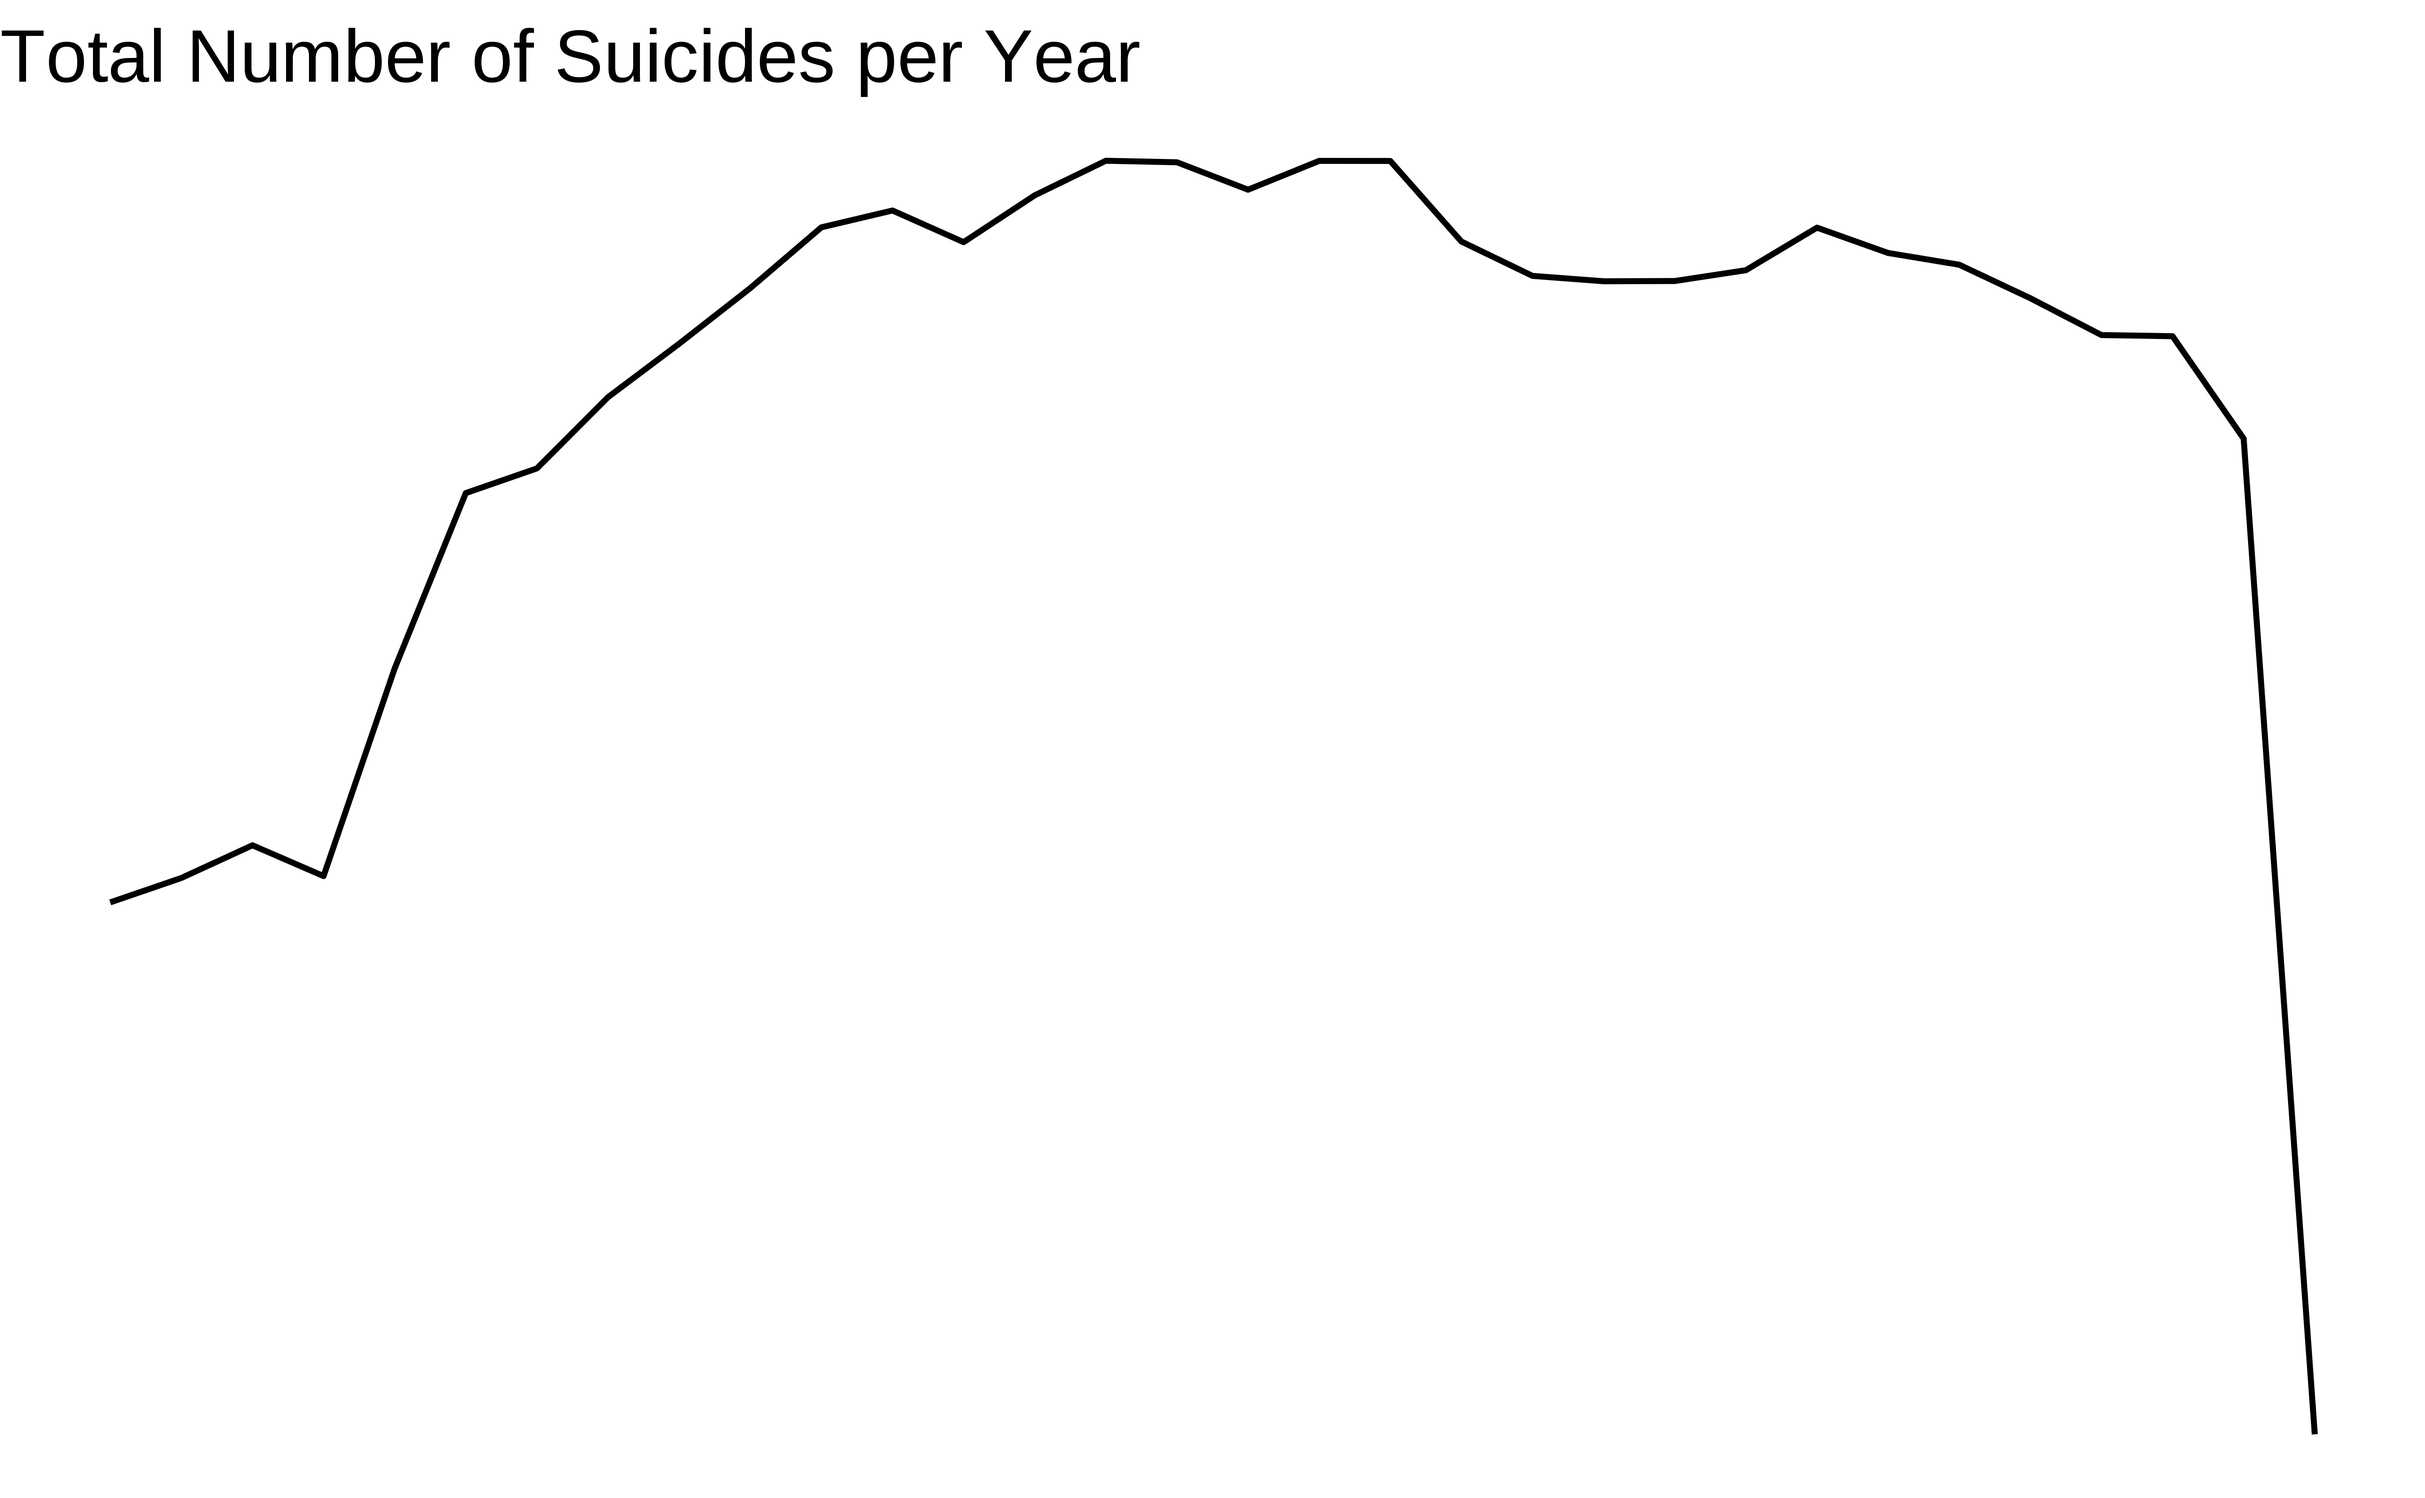
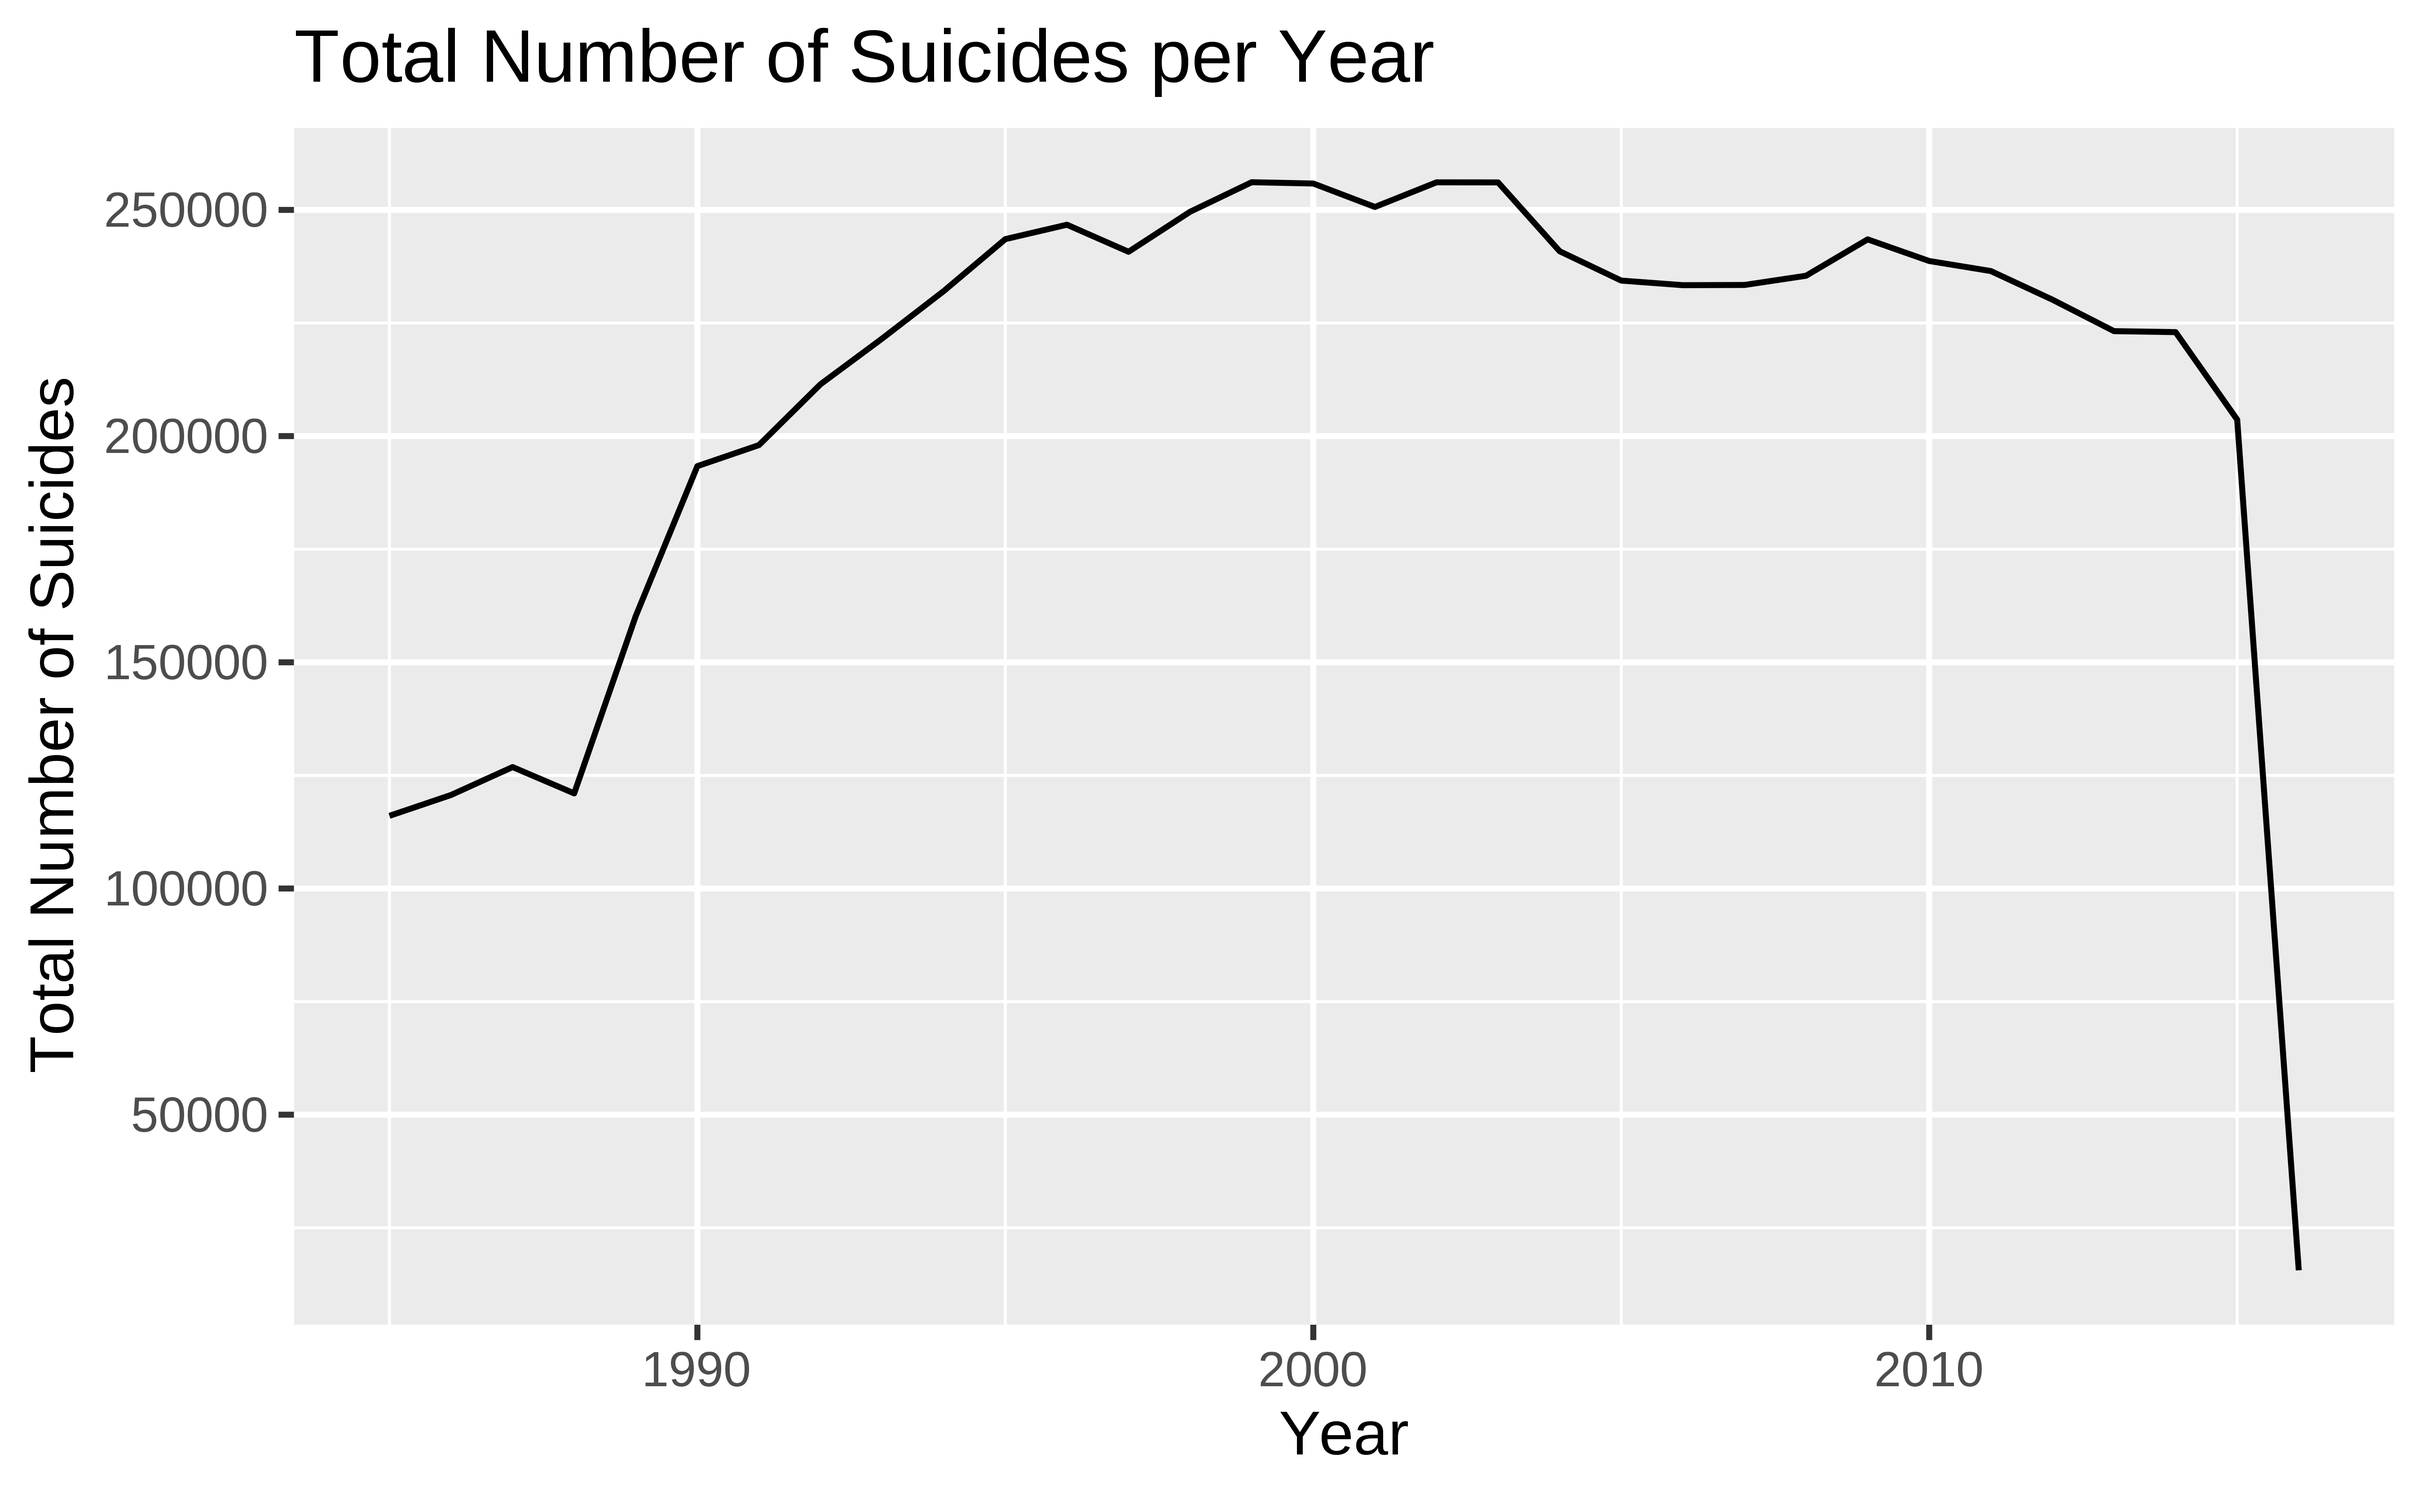
Presentation nearly finished.

diff --git a/presentation/presentation.html b/presentation/presentation.html
@@ -125,26 +125,23 @@ class: middle, center
 --
 
 .pull-left[
-&lt;font size="3"&gt;Although this is pre recorded, comment in the chat why you think there is a massive drop in suicides.&lt;/font&gt;
+&lt;font size="8"&gt;Comment in the chat why you think there is a massive drop in suicides.&lt;/font&gt;
 ]
 --
 .pull-right[
 
-```
-## `summarise()` ungrouping output (override with `.groups` argument)
-```
 
-&lt;img src="presentation_files/figure-html/First plot-1.png" width="60%" /&gt;
+&lt;img src="presentation_files/figure-html/wrong-graph-1.png" width="80%" /&gt;
 ]
 --
 
 .footnote[
-&lt;font size="5"&gt;Not all countries collected data for the early and late years, especially 2015.&lt;br&gt;&lt;br&gt;&lt;/font&gt;
+&lt;font size="8"&gt;Not all countries collected data for the early and late years, especially 2015.&lt;br&gt;&lt;br&gt;&lt;/font&gt;
 ]
 
 ---
 
-#Gender
+#What about gender?
 
 
 
@@ -249,12 +246,10 @@ class: middle, center
 .pull-left[
 &lt;img src="presentation_files/figure-html/suicide_by_gender_plot-1.png" width="80%" /&gt;
 ]
+--
 .pull-right[
 &lt;ul&gt;
-&lt;br&gt;&lt;font size="4"&gt;&lt;li&gt;T&lt;/font&gt;
-&lt;br&gt;&lt;br&gt;
---
-&lt;font size="4"&gt;This clearly supports the statistic that male suicide is more frequent than female.&lt;li&gt;.&lt;/font&gt;
+&lt;font size="10"&gt;This clearly supports the statistic that male suicide is more frequent than female.&lt;li&gt;.&lt;/font&gt;
 &lt;/ul&gt;
 ]
 
@@ -278,16 +273,15 @@ class: middle, center
 #More on the age variable
 --
 
+.pull-left[
 &lt;font size="13"&gt;Type here&lt;br&gt;&lt;br&gt;&lt;/font&gt;
+]
 --
+.pull-right[
 
 
-```
-## `summarise()` regrouping output by 'year' (override with `.groups` argument)
-```
-
-&lt;img src="presentation_files/figure-html/east-european-year-1.png" width="80%" /&gt;
-
+&lt;img src="presentation_files/figure-html/east-european-year-plot-1.png" width="80%" /&gt;
+]
 ---
 #What did we learn?
 
@@ -359,15 +353,15 @@ class: middle, center
 #HDI Plot
 --
 .pull-left[
-&lt;img src="presentation_files/figure-html/hdi-graph-1.png" width="60%" /&gt;
+&lt;img src="presentation_files/figure-html/hdi-graph-1.png" width="100%" /&gt;
 ]
 --
 .pull-right[
 &lt;ul&gt;
-&lt;br&gt;&lt;font size="4"&gt;&lt;li&gt;The smooth line is using the formula 'y ~ x'.&lt;/font&gt;
+&lt;br&gt;&lt;font size="5"&gt;&lt;li&gt;The smooth line is using the formula 'y ~ x'.&lt;/font&gt;
 &lt;br&gt;&lt;br&gt;
 --
-&lt;font size="4"&gt;There is not much of a trend between HDI and suicide rates.&lt;li&gt;.&lt;/font&gt;
+&lt;font size="5"&gt;There is not much of a trend between HDI and suicide rates.&lt;li&gt;.&lt;/font&gt;
 &lt;/ul&gt;
 ]
 ---
@@ -412,6 +406,18 @@ class: middle, center
 --
 &lt;font size="13"&gt;&lt;li&gt;The proportion of ages will be different.&lt;br&gt;&lt;br&gt;&lt;/font&gt;
 &lt;/ul&gt;
+
+---
+
+#Suicide Hotline
+
+--
+&lt;font size="13"&gt;Thank you for watching our presentation.&lt;br&gt;&lt;br&gt;&lt;/font&gt;
+--
+
+&lt;font size="13"&gt;Below is a number for a mental health hotline.&lt;br&gt;&lt;br&gt;&lt;/font&gt;
+
+&lt;font size="13"&gt;samaritans: 116 123&lt;br&gt;&lt;br&gt;&lt;/font&gt;
     </textarea>
 <style data-target="print-only">@media screen {.remark-slide-container{display:block;}.remark-slide-scaler{box-shadow:none;}}</style>
 <script src="https://remarkjs.com/downloads/remark-latest.min.js"></script>
